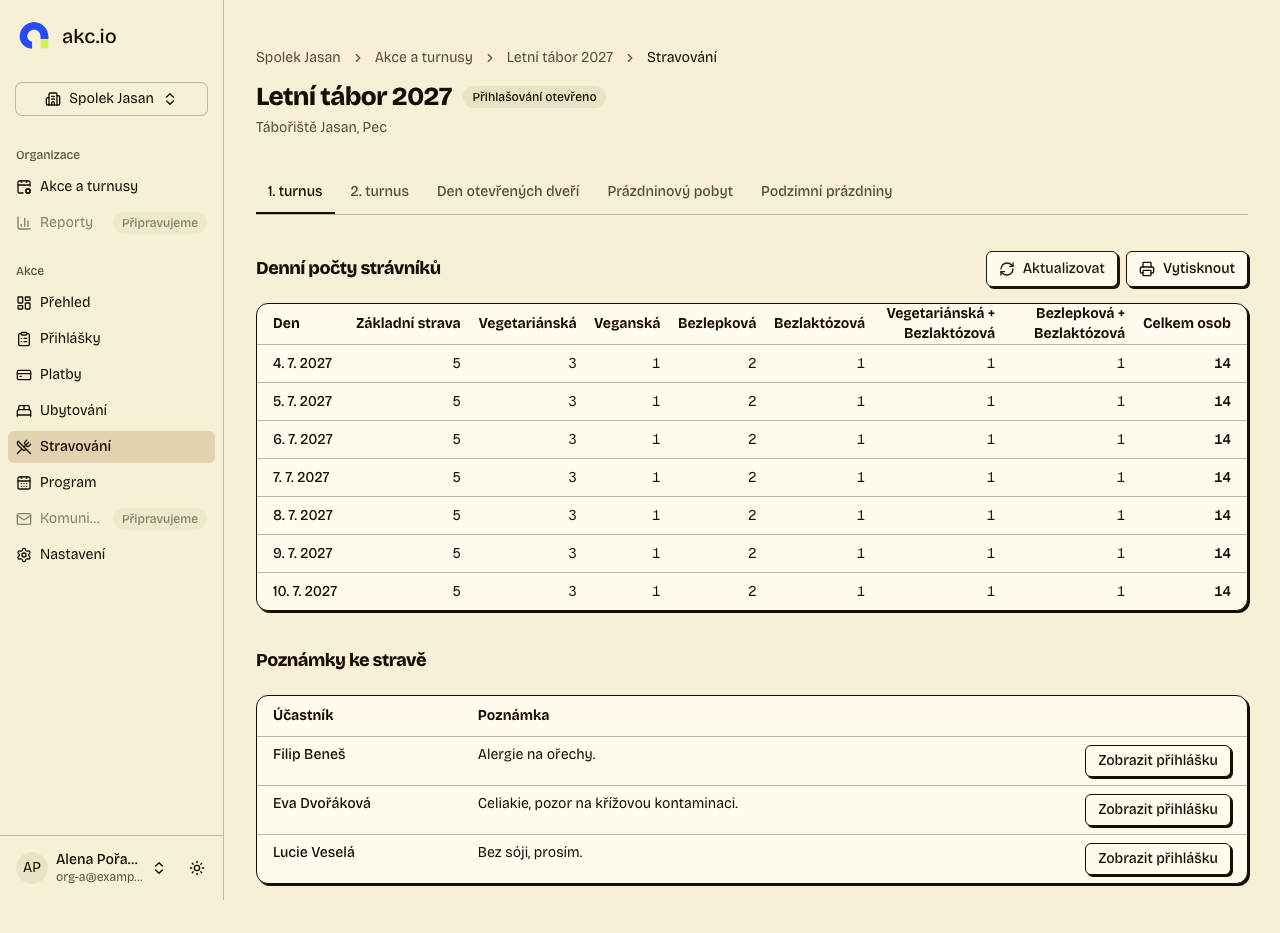
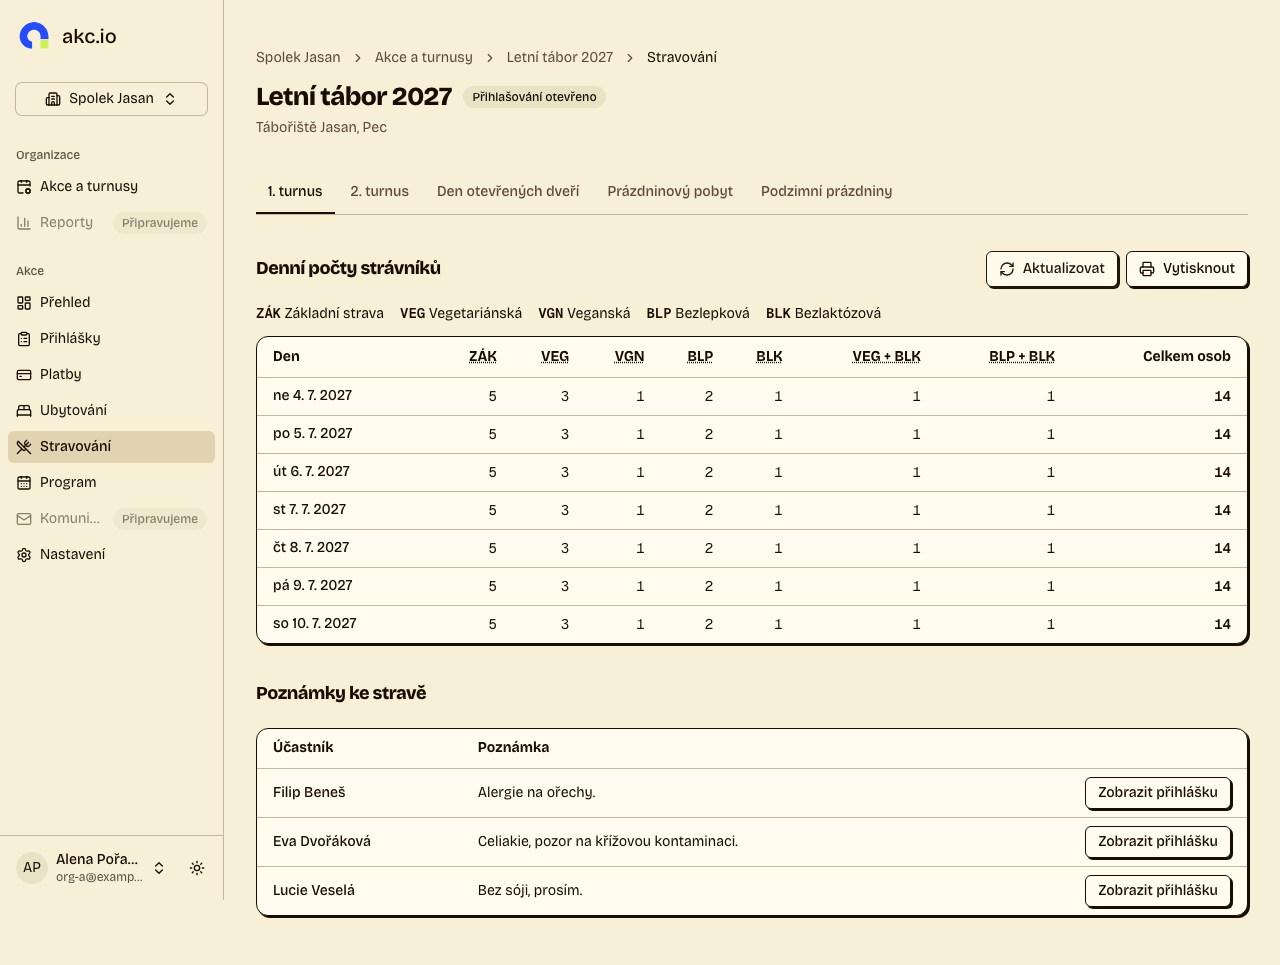
fix(meals): abbreviated category headers with a legend, weekdays, centred notes (S5-04)

diff --git a/apps/frontend/src/screens/event/Meals.stories.tsx b/apps/frontend/src/screens/event/Meals.stories.tsx
@@ -51,26 +51,28 @@ export const DailyCounts: Story = {
       { timeout: 5000 },
     )
     const rows = within(table).getAllByRole("row")
-    // The header and 14 days: 4. 7. to 17. 7. 2027.
+    // The header and 14 days: 4. 7. (Sunday) to 17. 7. 2027.
     await expect(rows).toHaveLength(15)
-    await expect(within(rows[1]!).getByText("4. 7. 2027")).toBeVisible()
-    await expect(within(rows[14]!).getByText("17. 7. 2027")).toBeVisible()
-    for (const name of [
+    await expect(within(rows[1]!).getByText("ne 4. 7. 2027")).toBeVisible()
+    await expect(within(rows[14]!).getByText("so 17. 7. 2027")).toBeVisible()
+    // The header uses short marks, the legend above the table names the ones in use.
+    for (const name of ["ZÁK", "VEG", "VGN", "VEG + BLK", "BLP", "Celkem osob"]) {
+      await expect(within(table).getByRole("columnheader", { name })).toBeVisible()
+    }
+    const legend = within(canvas.getAllByRole("list", { name: "Legenda zkratek" })[0]!)
+    for (const text of [
       "Základní strava",
       "Vegetariánská",
       "Veganská",
-      "Vegetariánská + Bezlaktózová",
       "Bezlepková",
-      "Celkem osob",
+      "Bezlaktózová",
     ]) {
-      await expect(within(table).getByRole("columnheader", { name })).toBeVisible()
+      await expect(legend.getByText(text, { exact: false })).toBeVisible()
     }
-    // Long category names wrap, so the table needs no sideways scrolling.
+    // A combination stays on one line, so the table needs no sideways scrolling.
     await expect(table.scrollWidth).toBeLessThanOrEqual(table.clientWidth)
-    // A category nobody belongs to is not a column.
-    await expect(
-      within(table).queryByRole("columnheader", { name: "Bezlaktózová" }),
-    ).not.toBeInTheDocument()
+    // A category nobody belongs to is not a column, nor in the legend.
+    await expect(within(table).queryByRole("columnheader", { name: "BLK" })).not.toBeInTheDocument()
     // The categories add up to the day's total.
     const cells = within(rows[1]!)
       .getAllByRole("cell")
@@ -98,6 +100,16 @@ export const Notes: Story = {
     await expect(open).toHaveAttribute("href", expect.stringContaining("#strava"))
     const table = within(within(notes).getByRole("region", { name: "Tabulka poznámek ke stravě" }))
     await expect(table.getByText("Alergie na ořechy, stopy nevadí.")).toBeVisible()
+    // Name, note and button share one vertical centre in each row.
+    const row = table.getByRole("row", { name: /Eliška Svobodová/ })
+    const centres = ["Eliška Svobodová", "Alergie na ořechy, stopy nevadí."].map((text) => {
+      const rect = within(row).getByText(text).getBoundingClientRect()
+      return rect.top + rect.height / 2
+    })
+    const button = within(row).getByRole("link").getBoundingClientRect()
+    for (const centre of centres) {
+      await expect(Math.abs(centre - (button.top + button.height / 2))).toBeLessThan(2)
+    }
   },
 }
 
@@ -124,6 +136,12 @@ export const PrintSummary: Story = {
       within(summary).getByText(/Turnus 1 · 4\. 7\. – 17\. 7\. 2027/),
     ).toBeInTheDocument()
     await expect(within(summary).getByText(/Vytvořeno/)).toBeInTheDocument()
+    await expect(
+      within(summary).getByRole("list", { name: "Legenda zkratek", hidden: true }),
+    ).toBeInTheDocument()
+    await expect(
+      within(summary).getByRole("columnheader", { name: "VEG + BLK", hidden: true }),
+    ).toBeInTheDocument()
     await expect(within(summary).queryByText(/Svobodová|ořechy/)).not.toBeInTheDocument()
     // Hidden on screen; only shown by the browser when printing.
     await expect(summary).not.toBeVisible()
@@ -182,7 +200,7 @@ export const LongTerm: Story = {
       { timeout: 5000 },
     )
     await expect(within(table).getAllByRole("row")).toHaveLength(46)
-    await expect(within(table).getByText("14. 9. 2027")).toBeVisible()
+    await expect(within(table).getByText("út 14. 9. 2027")).toBeVisible()
   },
 }
 
@@ -196,9 +214,9 @@ export const MobileDays: Story = {
       { timeout: 5000 },
     )
     const section = within(heading.closest("section")!)
-    await expect(await section.findByText("ne 4. 7. 2027")).toBeVisible()
     // One item per day of the term (the table is in the page, but hidden).
-    const days = within(section.getAllByRole("list")[0]!)
+    const days = within(await section.findAllByRole("list").then((lists) => lists[0]!))
+    await expect(days.getByText("ne 4. 7. 2027")).toBeVisible()
     await expect(days.getAllByText(/Celkem osob/)).toHaveLength(14)
     await expect(section.getAllByText("Vegetariánská + Bezlaktózová")[0]).toBeVisible()
     // The wide table is only for larger screens.

diff --git a/apps/frontend/src/features/meals/lib/mealCategories.ts b/apps/frontend/src/features/meals/lib/mealCategories.ts
@@ -1,6 +1,8 @@
-import type { MealCategory } from "@/features/meals/api/mealSchemas"
+import type { MealCategory, MealOverview } from "@/features/meals/api/mealSchemas"
 
-const DIET_LABELS: Record<MealCategory["diets"][number], string> = {
+type Diet = MealCategory["diets"][number]
+
+const DIET_LABELS: Record<Diet, string> = {
   vegetarian: "Vegetariánská",
   vegan: "Veganská",
   gluten_free: "Bezlepková",
@@ -9,11 +11,50 @@ const DIET_LABELS: Record<MealCategory["diets"][number], string> = {
 
 export const BASIC_MEAL = "Základní strava"
 
+/** The short marks of the table header; a legend names the ones in use. */
+const ABBREVIATIONS: Record<Diet, string> = {
+  vegetarian: "VEG",
+  vegan: "VGN",
+  gluten_free: "BLP",
+  lactose_free: "BLK",
+}
+
+export const BASIC_ABBREVIATION = "ZÁK"
+
 /** "Základní strava", "Veganská" or a combined portion: "Vegetariánská + Bezlaktózová". */
 export const categoryLabel = (category: Pick<MealCategory, "diets">) =>
   category.diets.length === 0
     ? BASIC_MEAL
     : category.diets.map((diet) => DIET_LABELS[diet]).join(" + ")
 
+/** "ZÁK", "VGN" or a combination: "VEG + BLK". */
+export const categoryAbbreviation = (category: Pick<MealCategory, "diets">) =>
+  category.diets.length === 0
+    ? BASIC_ABBREVIATION
+    : category.diets.map((diet) => ABBREVIATIONS[diet]).join(" + ")
+
 /** Stable identity of a category across days. */
 export const categoryKey = (category: Pick<MealCategory, "diets">) => category.diets.join("+")
+
+/** The categories somebody belongs to on any day: the columns of the table. */
+export function mealColumns(overview: MealOverview): MealCategory[] {
+  const columns = new Map<string, MealCategory>()
+  for (const day of overview.days) {
+    for (const category of day.categories) columns.set(categoryKey(category), category)
+  }
+  return [...columns.values()]
+}
+
+/** The abbreviations in use with their full names, basic meal first. */
+export function mealLegend(columns: Pick<MealCategory, "diets">[]) {
+  const used = new Set(columns.flatMap((column) => column.diets))
+  const entries = [
+    ...(columns.some((column) => column.diets.length === 0)
+      ? [{ abbreviation: BASIC_ABBREVIATION, label: BASIC_MEAL }]
+      : []),
+    ...(Object.keys(ABBREVIATIONS) as Diet[])
+      .filter((diet) => used.has(diet))
+      .map((diet) => ({ abbreviation: ABBREVIATIONS[diet], label: DIET_LABELS[diet] })),
+  ]
+  return entries
+}

diff --git a/apps/frontend/src/features/meals/components/MealCountsTable.tsx b/apps/frontend/src/features/meals/components/MealCountsTable.tsx
@@ -6,10 +6,15 @@ import {
   TableHeader,
   TableRow,
 } from "@/components/ui/table"
-import { formatCalendarDate } from "@/lib/date"
+import { formatCalendarDate, formatCalendarWeekday } from "@/lib/date"
 
 import type { MealOverview } from "@/features/meals/api/mealSchemas"
-import { categoryKey, categoryLabel } from "@/features/meals/lib/mealCategories"
+import {
+  categoryAbbreviation,
+  categoryKey,
+  categoryLabel,
+  mealColumns,
+} from "@/features/meals/lib/mealCategories"
 
 type MealCountsTableProps = {
   overview: MealOverview
@@ -26,11 +31,7 @@ export function MealCountsTable({
   containerLabel,
   isPrint = false,
 }: MealCountsTableProps) {
-  const categories = new Map<string, MealOverview["days"][number]["categories"][number]>()
-  for (const day of overview.days) {
-    for (const category of day.categories) categories.set(categoryKey(category), category)
-  }
-  const columns = [...categories.values()]
+  const columns = mealColumns(overview)
 
   return (
     <Table
@@ -45,15 +46,7 @@ export function MealCountsTable({
               key={categoryKey(column)}
               className="text-right"
             >
-              <span
-                className={
-                  isPrint
-                    ? "block text-xs whitespace-normal"
-                    : "inline-block max-w-28 whitespace-normal"
-                }
-              >
-                {categoryLabel(column)}
-              </span>
+              <abbr title={categoryLabel(column)}>{categoryAbbreviation(column)}</abbr>
             </TableHead>
           ))}
           <TableHead className="text-right">Celkem osob</TableHead>
@@ -63,7 +56,9 @@ export function MealCountsTable({
         {overview.days.map((day) => (
           <TableRow key={day.date}>
             <TableCell>
-              <span className="font-medium">{formatCalendarDate(day.date)}</span>
+              <span className="font-medium">
+                {formatCalendarWeekday(day.date)} {formatCalendarDate(day.date)}
+              </span>
             </TableCell>
             {columns.map((column) => {
               const count =

diff --git a/apps/frontend/src/features/meals/lib/mealCategories.test.ts b/apps/frontend/src/features/meals/lib/mealCategories.test.ts
@@ -1,6 +1,11 @@
 import { describe, expect, it } from "vitest"
 
-import { categoryKey, categoryLabel } from "@/features/meals/lib/mealCategories"
+import {
+  categoryAbbreviation,
+  categoryKey,
+  categoryLabel,
+  mealLegend,
+} from "@/features/meals/lib/mealCategories"
 
 describe("categoryLabel", () => {
   it("names no diet as the basic meal", () => {
@@ -12,5 +17,31 @@ describe("categoryLabel", () => {
       "Vegetariánská + Bezlaktózová",
     )
     expect(categoryKey({ diets: ["vegetarian", "lactose_free"] })).toBe("vegetarian+lactose_free")
+  })
+})
+
+describe("categoryAbbreviation", () => {
+  it("abbreviates single categories and combinations", () => {
+    expect(categoryAbbreviation({ diets: [] })).toBe("ZÁK")
+    expect(categoryAbbreviation({ diets: ["vegan"] })).toBe("VGN")
+    expect(categoryAbbreviation({ diets: ["gluten_free"] })).toBe("BLP")
+    expect(categoryAbbreviation({ diets: ["vegetarian", "lactose_free"] })).toBe("VEG + BLK")
+  })
+})
+
+describe("mealLegend", () => {
+  it("names only the abbreviations in use, basic meal first", () => {
+    expect(
+      mealLegend([{ diets: ["lactose_free", "vegetarian"] }, { diets: [] }, { diets: ["vegan"] }]),
+    ).toEqual([
+      { abbreviation: "ZÁK", label: "Základní strava" },
+      { abbreviation: "VEG", label: "Vegetariánská" },
+      { abbreviation: "VGN", label: "Veganská" },
+      { abbreviation: "BLK", label: "Bezlaktózová" },
+    ])
+  })
+
+  it("has no basic meal entry when nobody eats it", () => {
+    expect(mealLegend([{ diets: ["vegan"] }])).toEqual([{ abbreviation: "VGN", label: "Veganská" }])
   })
 })

diff --git a/apps/frontend/src/features/meals/components/MealsSection.tsx b/apps/frontend/src/features/meals/components/MealsSection.tsx
@@ -15,6 +15,7 @@ import { Skeleton } from "@/components/ui/skeleton"
 import { mealOverviewQueryOptions } from "@/features/meals/api/mealQueryOptions"
 import { MealCountsTable } from "@/features/meals/components/MealCountsTable"
 import { MealDayList } from "@/features/meals/components/MealDayList"
+import { MealLegend } from "@/features/meals/components/MealLegend"
 import { MealNotes } from "@/features/meals/components/MealNotes"
 
 type MealsSectionProps = { organizationId: string; eventId: string; termId: string }
@@ -86,14 +87,17 @@ export function MealsSection({ organizationId, eventId, termId }: MealsSectionPr
             className="space-y-8"
           >
             <MealDayList overview={data} />
-            <Card className="hidden md:block">
-              <div className="-my-6">
-                <MealCountsTable
-                  overview={data}
-                  containerLabel="Tabulka stravování po dnech"
-                />
-              </div>
-            </Card>
+            <div className="hidden space-y-3 md:block">
+              <MealLegend overview={data} />
+              <Card>
+                <div className="-my-6">
+                  <MealCountsTable
+                    overview={data}
+                    containerLabel="Tabulka stravování po dnech"
+                  />
+                </div>
+              </Card>
+            </div>
             {data.notes.length > 0 ? (
               <MealNotes
                 organizationId={organizationId}

diff --git a/apps/frontend/src/features/meals/components/MealNotes.tsx b/apps/frontend/src/features/meals/components/MealNotes.tsx
@@ -56,15 +56,15 @@ export function MealNotes({ organizationId, eventId, notes }: MealNotesProps) {
             <TableBody>
               {notes.map((note) => (
                 <TableRow key={note.registrationId}>
-                  <TableCell className="align-top">
+                  <TableCell>
                     <span className="font-medium">
                       {note.firstName} {note.lastName}
                     </span>
                   </TableCell>
-                  <TableCell className="align-top">
+                  <TableCell>
                     <span className="block min-w-48 whitespace-normal">{note.note}</span>
                   </TableCell>
-                  <TableCell className="text-right align-top">
+                  <TableCell className="text-right">
                     <ShowRegistration
                       organizationId={organizationId}
                       eventId={eventId}

diff --git a/apps/frontend/src/features/meals/components/MealLegend.tsx b/apps/frontend/src/features/meals/components/MealLegend.tsx
@@ -1,0 +1,19 @@
+import type { MealOverview } from "@/features/meals/api/mealSchemas"
+import { mealColumns, mealLegend } from "@/features/meals/lib/mealCategories"
+
+// Full names of the abbreviations the table header uses; only the ones in use.
+export function MealLegend({ overview }: { overview: MealOverview }) {
+  const entries = mealLegend(mealColumns(overview))
+  return (
+    <ul
+      aria-label="Legenda zkratek"
+      className="flex flex-wrap gap-x-4 gap-y-1 text-sm"
+    >
+      {entries.map((entry) => (
+        <li key={entry.abbreviation}>
+          <span className="font-mono font-semibold">{entry.abbreviation}</span> {entry.label}
+        </li>
+      ))}
+    </ul>
+  )
+}

diff --git a/apps/frontend/src/features/meals/components/MealsPrintSummary.tsx b/apps/frontend/src/features/meals/components/MealsPrintSummary.tsx
@@ -5,6 +5,7 @@ import { formatCalendarRange, formatPragueDate } from "@/lib/date"
 
 import { mealOverviewQueryOptions } from "@/features/meals/api/mealQueryOptions"
 import { MealCountsTable } from "@/features/meals/components/MealCountsTable"
+import { MealLegend } from "@/features/meals/components/MealLegend"
 
 type MealsPrintSummaryProps = {
   organizationId: string
@@ -40,6 +41,7 @@ export function MealsPrintSummary({
         <p className="text-sm">Vytvořeno {formatPragueDate(new Date().toISOString())}</p>
       </header>
       <h2 className="text-h4">Denní počty strávníků</h2>
+      <MealLegend overview={data} />
       <MealCountsTable
         overview={data}
         isPrint
